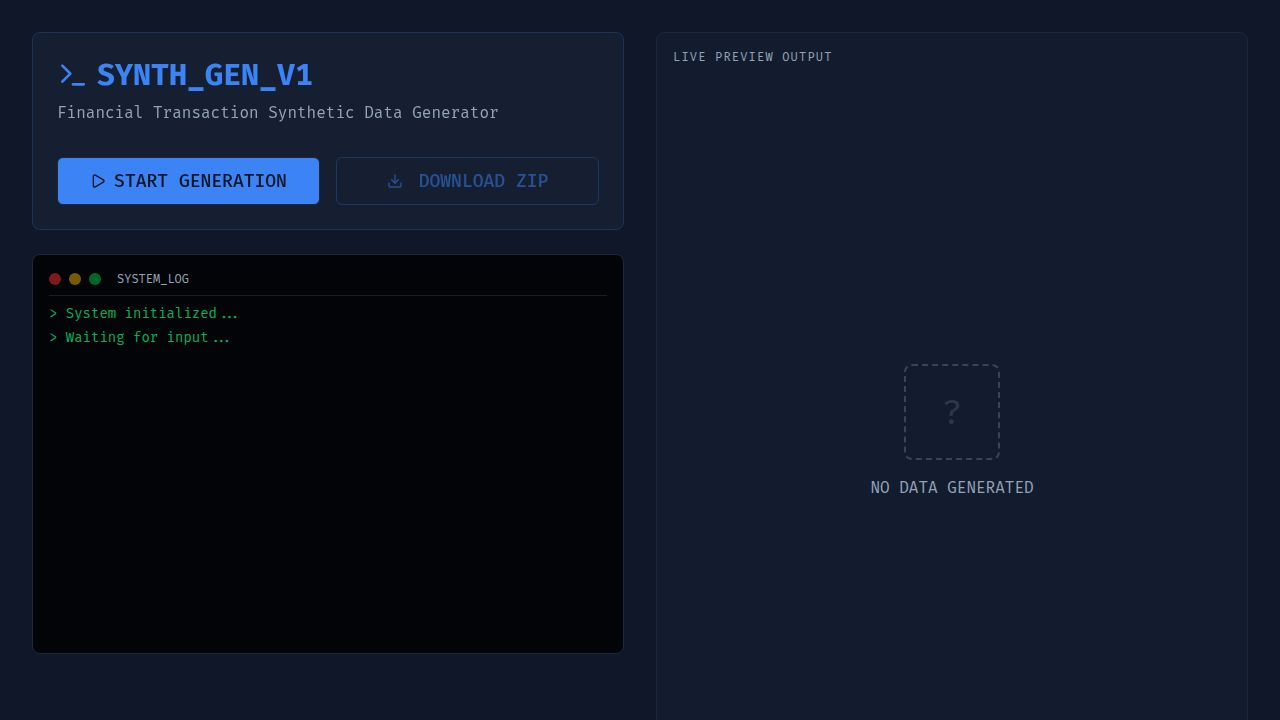
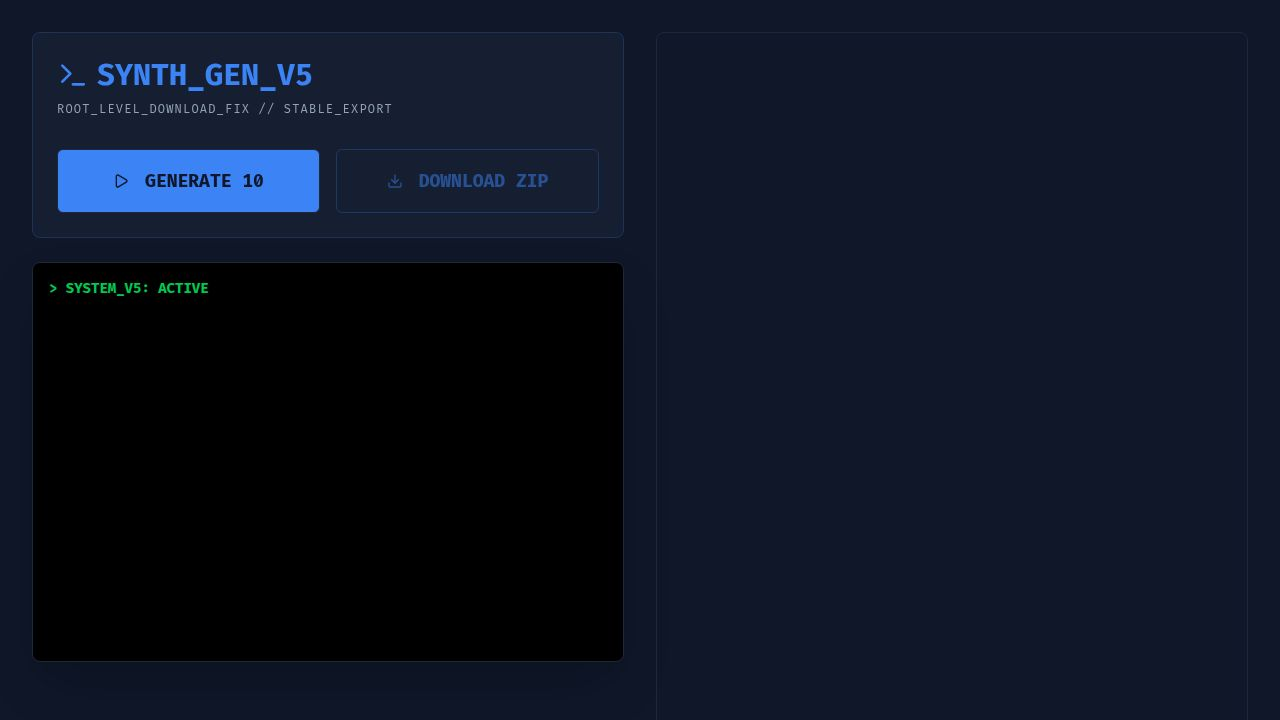
Improve ZIP download functionality and log generation progress
Update Generator.tsx to correctly integrate JSZip and file-saver for reliable ZIP file creation and triggering, adding console logs for progress tracking.

Replit-Commit-Author: Agent
Replit-Commit-Session-Id: bb0c36ef-4f7b-4f37-9d99-c365a48ddc4d
Replit-Commit-Checkpoint-Type: full_checkpoint
Replit-Commit-Event-Id: a0a4f8b1-34ca-4db0-9b9e-4d13effb2f92
Replit-Commit-Screenshot-Url: https://storage.googleapis.com/screenshot-production-us-central1/8fb738d8-2db8-4929-8f3d-61be6faaac7c/bb0c36ef-4f7b-4f37-9d99-c365a48ddc4d/DxcB85q
Replit-Helium-Checkpoint-Created: true

diff --git a/client/src/pages/Generator.tsx b/client/src/pages/Generator.tsx
@@ -17,11 +17,11 @@ export default function Generator() {
   const [generatedImages, setGeneratedImages] = useState<string[]>([]);
 
   const handleStart = async () => {
+    console.log("Starting generation...");
     setIsGenerating(true);
     setProgress(0);
     setGeneratedImages([]);
     
-    // Always generate 10 as per user request
     const fullData = generateTransactions();
     const data = fullData.slice(0, 10); 
     setTransactions(data);
@@ -33,12 +33,12 @@ export default function Generator() {
     if (currentProcessingIndex === -1) return;
     
     if (currentProcessingIndex >= transactions.length) {
+      console.log("Generation complete. 10 images captured.");
       setIsGenerating(false);
       setCurrentProcessingIndex(-1);
       return;
     }
 
-    // Increased wait time for visual stability
     await new Promise(resolve => setTimeout(resolve, 500));
     
     const element = document.getElementById("receipt-capture-target");
@@ -51,7 +51,6 @@ export default function Generator() {
           backgroundColor: "#ffffff",
           windowWidth: 360,
           windowHeight: 740,
-          removeContainer: true
         });
         
         const dataUrl = canvas.toDataURL("image/jpeg", 1.0);
@@ -75,35 +74,30 @@ export default function Generator() {
   }, [currentProcessingIndex, isGenerating]);
 
   const handleDownloadZip = async () => {
-    if (generatedImages.length === 0) return;
+    if (generatedImages.length === 0) {
+      console.error("No images to download");
+      return;
+    }
+    
+    console.log("Initializing ZIP creation...");
+    const zip = new JSZip();
     
     try {
-      const zip = new JSZip();
-      
-      // Use for loop for sequential addition to zip
       for (let i = 0; i < generatedImages.length; i++) {
         const dataUrl = generatedImages[i];
         const base64Data = dataUrl.split(',')[1];
         zip.file(`receipt_${i + 1}.jpg`, base64Data, { base64: true });
+        console.log(`Added image ${i + 1} to ZIP`);
       }
       
-      const blob = await zip.generateAsync({ 
-        type: "blob",
-        mimeType: "application/zip"
-      });
+      console.log("Generating ZIP blob...");
+      const content = await zip.generateAsync({ type: "blob" });
       
-      const fileName = `dataset_${Date.now()}.zip`;
-      
-      // Use direct browser download trigger
-      const link = document.createElement('a');
-      link.href = URL.createObjectURL(blob);
-      link.download = fileName;
-      document.body.appendChild(link);
-      link.click();
-      document.body.removeChild(link);
-      
+      console.log("Triggering download...");
+      saveAs(content, `receipts_batch_${Date.now()}.zip`);
+      console.log("Download triggered successfully.");
     } catch (error) {
-      console.error("Zip failed", error);
+      console.error("ZIP creation failed:", error);
     }
   };
 
@@ -114,10 +108,10 @@ export default function Generator() {
           <div className="border border-primary/20 bg-card/50 p-6 rounded-lg backdrop-blur-sm">
             <h1 className="text-3xl font-bold text-primary mb-2 flex items-center gap-2">
               <Terminal className="w-8 h-8" />
-              ULTRA_GEN_V4
+              SYNTH_GEN_V5
             </h1>
             <p className="text-muted-foreground mb-8 text-xs tracking-widest">
-              SYSTEM_READY // ZERO_METADATA_MODE
+              ROOT_LEVEL_DOWNLOAD_FIX // STABLE_EXPORT
             </p>
 
             <div className="space-y-4">
@@ -152,13 +146,12 @@ export default function Generator() {
           <div className="border border-border bg-black p-4 rounded-lg h-[400px] overflow-hidden flex flex-col font-mono text-sm shadow-2xl">
             <ScrollArea className="flex-1">
               <div className="space-y-1 text-green-500 font-bold">
-                <p>{">"} BOOT_V4: SUCCESS</p>
-                <p>{">"} STATUS_BAR_STRIP: COMPLETE</p>
+                <p>{">"} SYSTEM_V5: ACTIVE</p>
                 {generatedImages.map((_, i) => (
-                  <p key={i}>{">"} FRAME_{i + 1}: CAPTURED</p>
+                  <p key={i}>{">"} IMAGE_{i + 1}: CAPTURED</p>
                 ))}
                 {generatedImages.length === 10 && !isGenerating && (
-                  <p className="text-white bg-primary px-2 mt-2 inline-block">READY: DOWNLOAD_ZIP_ENABLED</p>
+                  <p className="text-white bg-primary px-2 mt-2 inline-block">DOWNLOAD READY</p>
                 )}
               </div>
             </ScrollArea>
@@ -181,7 +174,7 @@ export default function Generator() {
             <div className="flex flex-col items-center">
               <div className="flex items-center gap-4 text-primary font-black text-3xl mb-8 italic uppercase tracking-tighter">
                 <CheckCircle2 size={40} className="text-green-500" />
-                Capture Stream Complete
+                Batch Ready
               </div>
               <div className="grid grid-cols-5 gap-4 scale-[0.6]">
                 {generatedImages.map((img, i) => (
